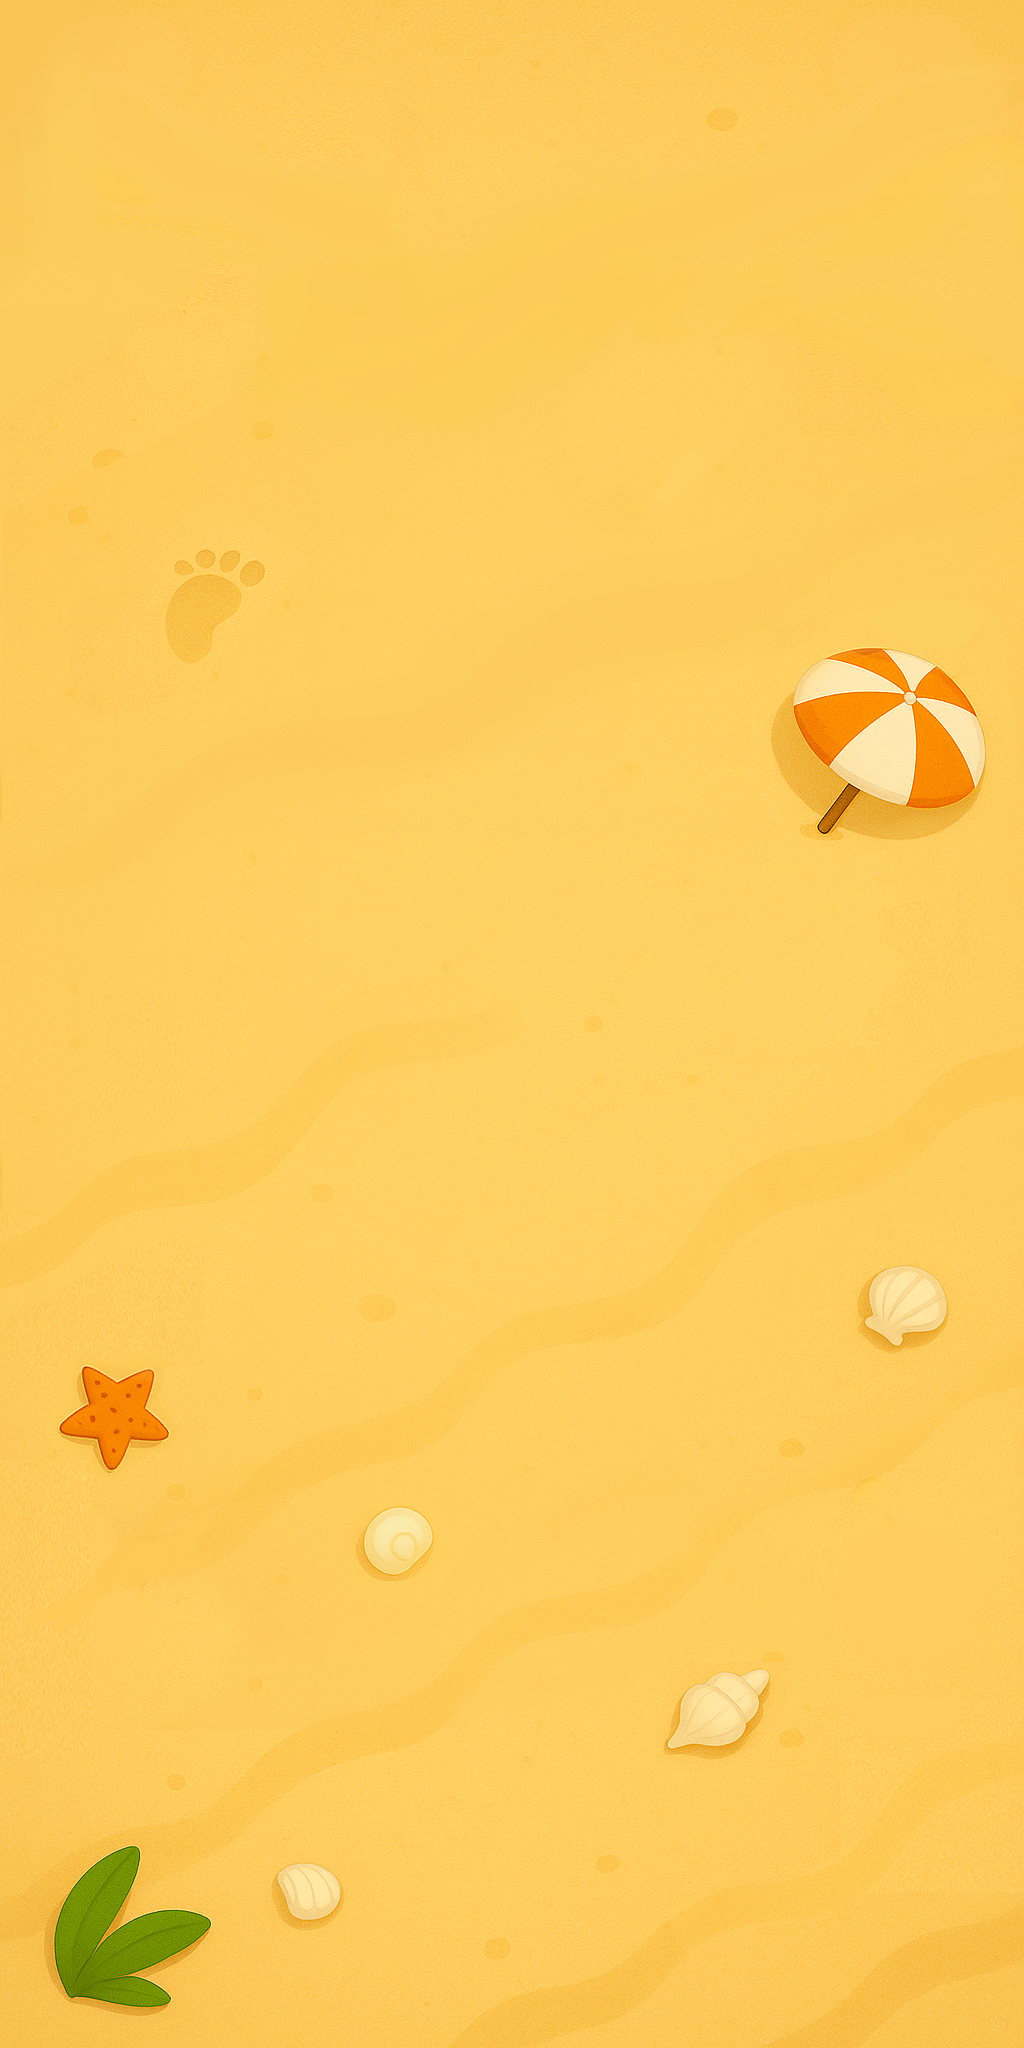
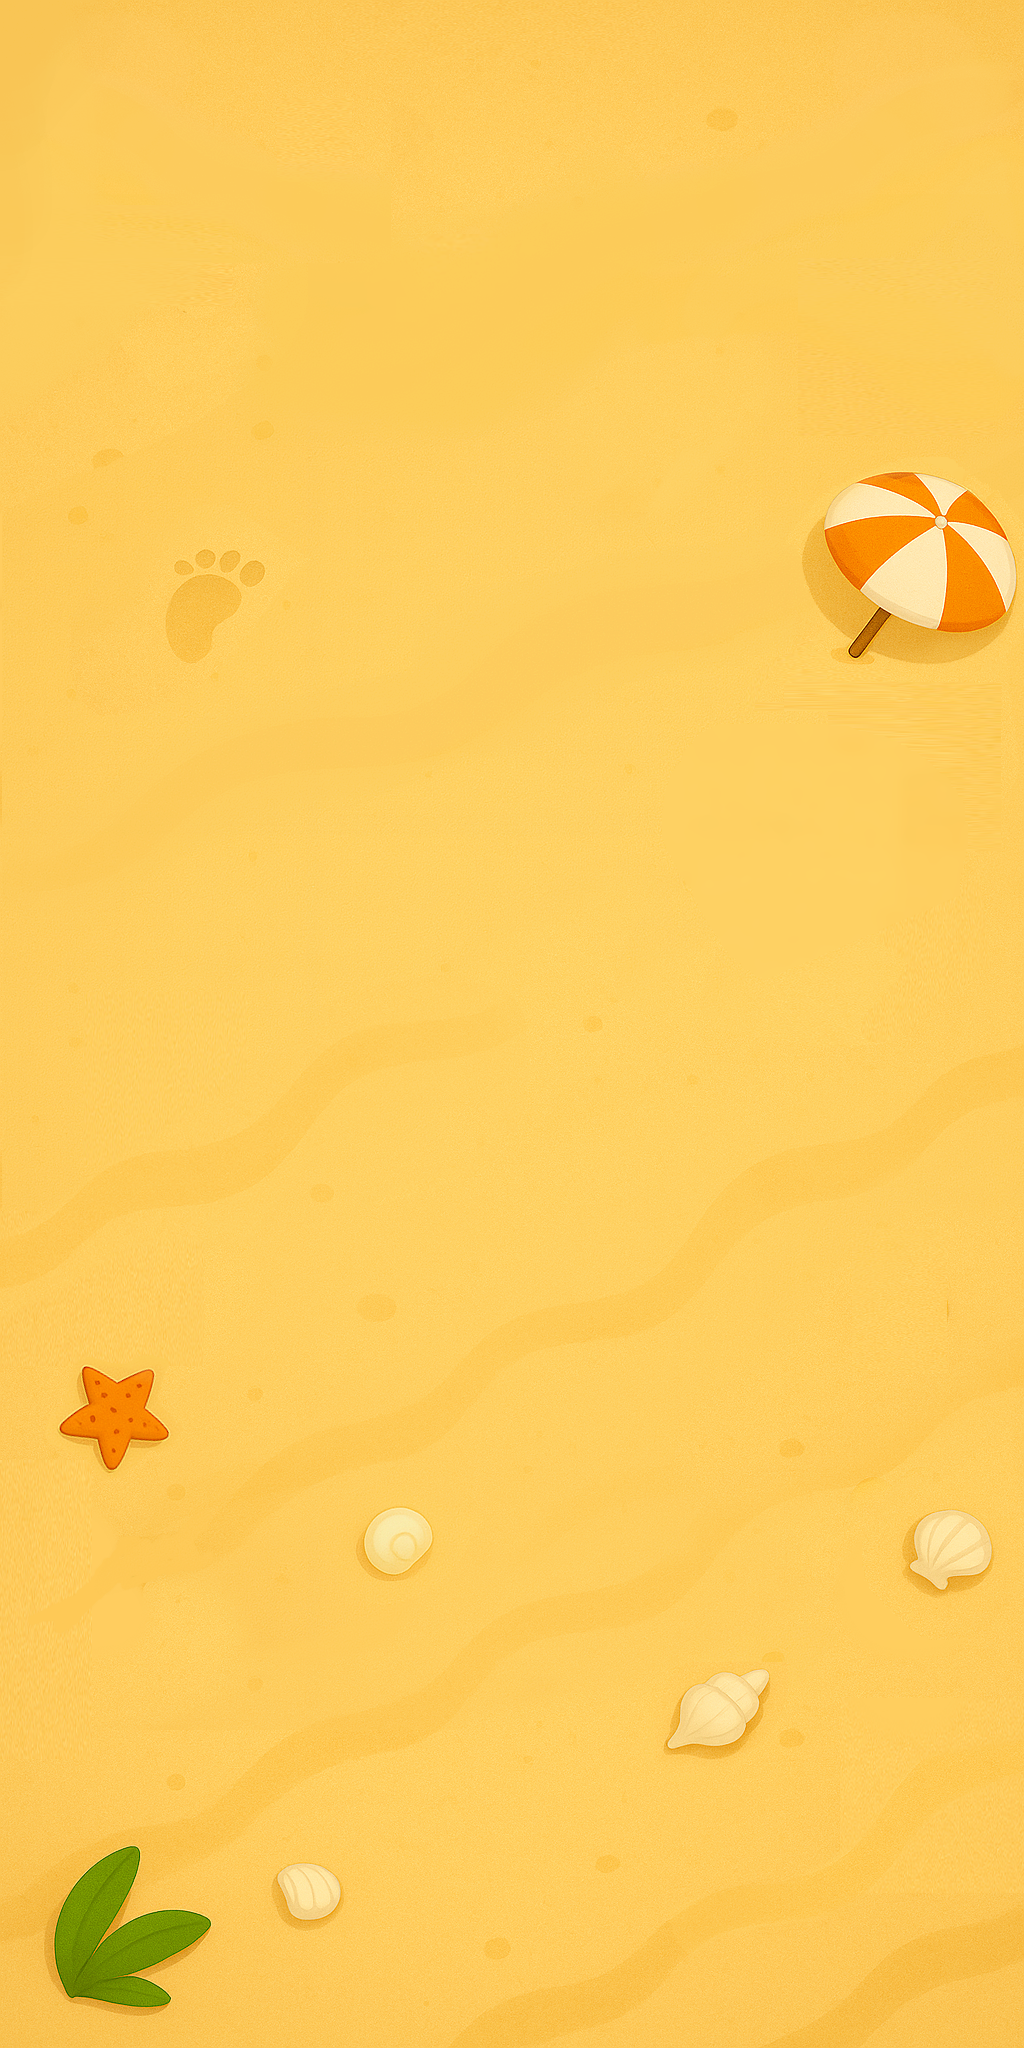
fix timer and revert to old background

Changed region(s): [[0.75, 0.2188, 1.0, 0.4062], [0.875, 0.7188, 0.9688, 0.7812], [0.8438, 0.5938, 0.9375, 0.6562]]

diff --git a/src/components/game/timer.tsx b/src/components/game/timer.tsx
@@ -1,9 +1,11 @@
-import React from 'react';
+import React, {useMemo} from 'react';
 import {StyleSheet, View} from 'react-native';
 import Svg, {Image} from 'react-native-svg';
 import {useTimer} from '~/hooks/useTimer';
 import {useYanivGameStore} from '~/store/yanivGameStore';
 import {OutlinedText} from '../cartoonText';
+
+const image = require('~/assets/images/float.png');
 
 function GameTimer() {
   const {game} = useYanivGameStore();
@@ -14,27 +16,28 @@ function GameTimer() {
     game.rules.timePerPlayer,
     game.phase,
   );
+  const styleOpacity = useMemo(
+    () => ({
+      opacity: game.phase === 'active' ? 1 : 0,
+    }),
+    [game.phase],
+  );
+
   return (
-    <View style={styles.timerContainer}>
-      {game.phase === 'active' && (
-        <Svg width={70} height={70} viewBox="0 0 100 100">
-          <Image
-            width="100"
-            height="100"
-            href={require('~/assets/images/float.png')}
-          />
-          <OutlinedText
-            text={`${timeRemaining}`}
-            fontSize={30}
-            width={100}
-            height={98}
-            fillColor={'#FFC606'}
-            strokeColor={'#5B2500'}
-            strokeWidth={4}
-            fontWeight={'700'}
-          />
-        </Svg>
-      )}
+    <View style={[styles.timerContainer, styleOpacity]}>
+      <Svg width={70} height={70} viewBox="0 0 100 100">
+        <Image width="100" height="100" href={image} />
+        <OutlinedText
+          text={`${timeRemaining}`}
+          fontSize={30}
+          width={100}
+          height={98}
+          fillColor={'#FFC606'}
+          strokeColor={'#5B2500'}
+          strokeWidth={4}
+          fontWeight={'700'}
+        />
+      </Svg>
     </View>
   );
 }

diff --git a/src/screens/waveScreen.tsx b/src/screens/waveScreen.tsx
@@ -208,7 +208,7 @@ const WaveAnimationBackground = ({setReady}: WaveAnimationBackgroundProp) => {
     return interpolate(progress, [0, 1], [20, 5]);
   });
 
-  const image = useImage(require('~/assets/images/beach_4.png'));
+  const image = useImage(require('~/assets/images/beach_1.png'));
 
   useEffect(() => {
     if (!isNull(image)) {
